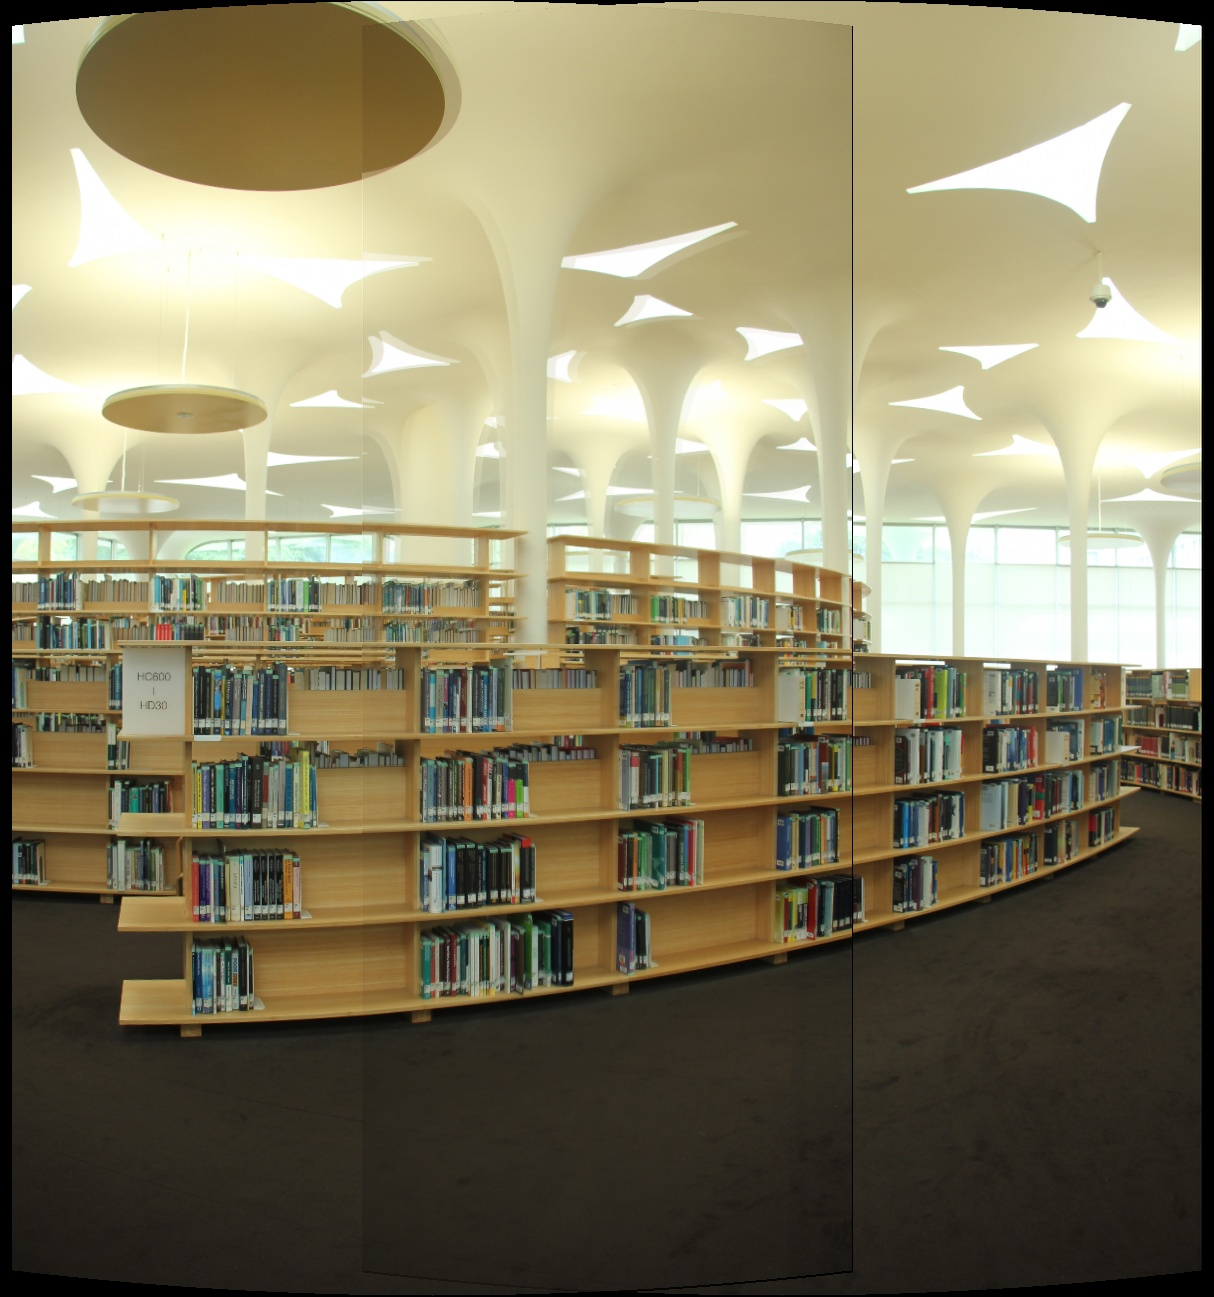
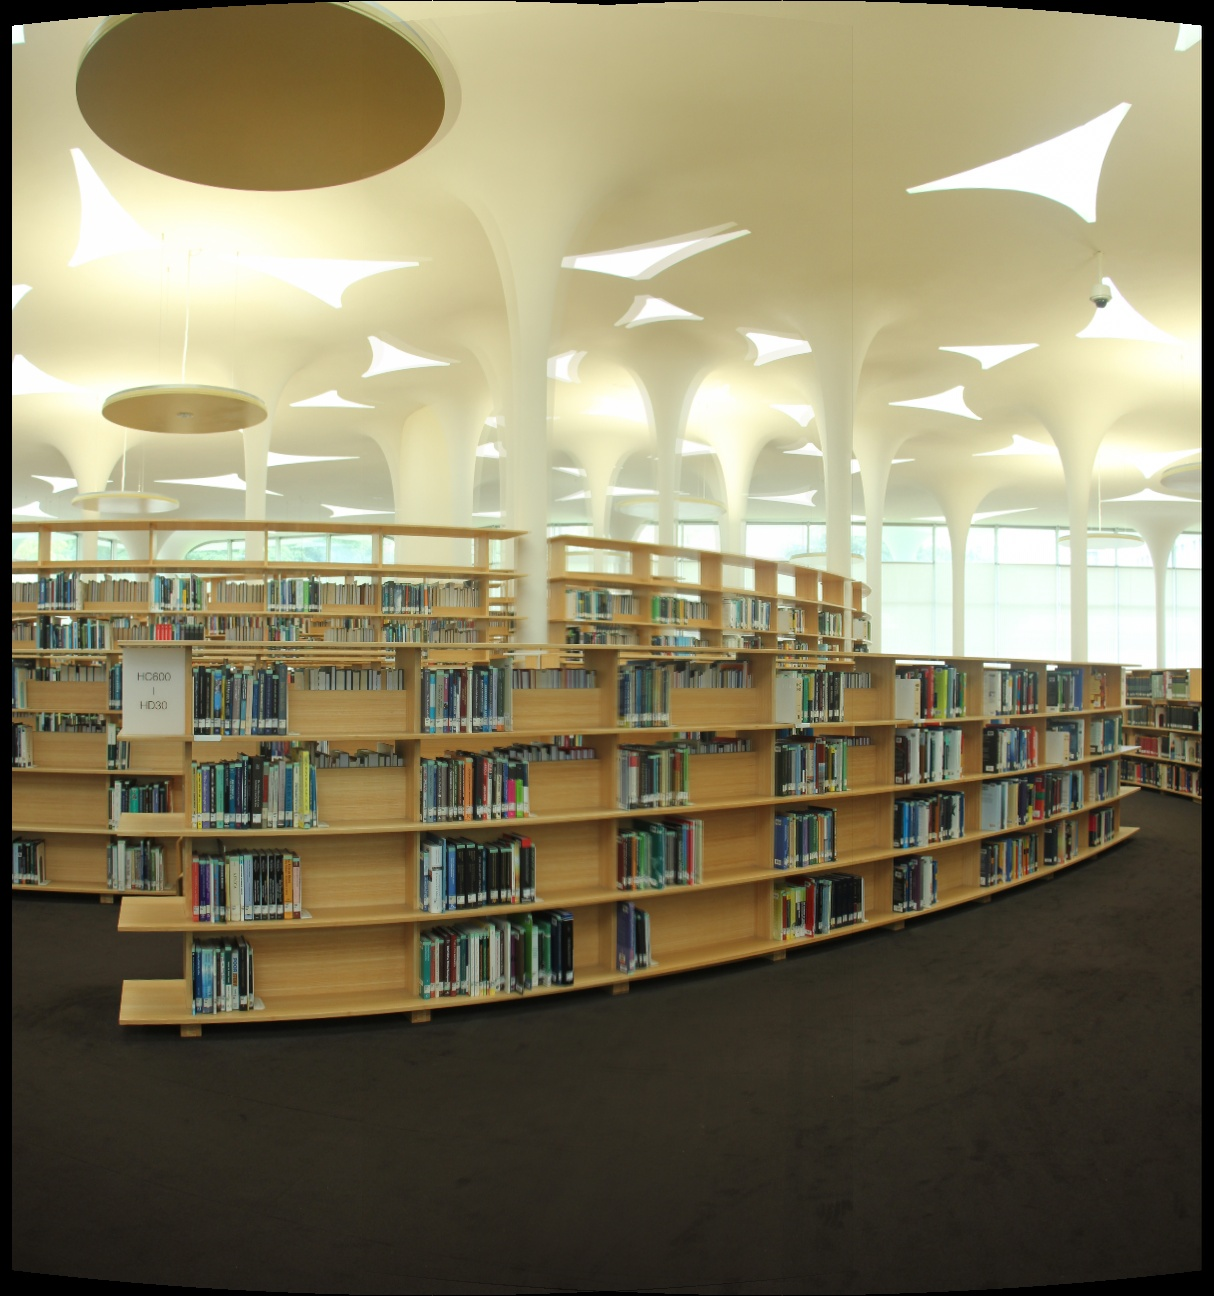
fix order

diff --git a/main.py b/main.py
@@ -62,8 +62,8 @@ def plot_matching(img_dir = 'images', cache_dir = 'cache'):
     plt.show()
 
 def in_img(f, tx, ty, w, h, x_d, y_d):
-    x_d = x_d + tx
-    y_d = y_d + ty
+    x_d = x_d - tx
+    y_d = y_d - ty
     x_u = np.tan((x_d-w//2)/f)*f
     y_u = (y_d-h//2)/f*np.sqrt(np.square(x_u)+f**2)
     return(0 <= x_u+w//2 and x_u+w//2 <= w and 0 <= y_u+h//2 and y_u+h//2 <= h)
@@ -73,12 +73,12 @@ if __name__ == '__main__':
     x = np.load('cache/x.npy').astype(np.int)
     y = np.load('cache/y.npy').astype(np.int)
     features = np.load('cache/features.npy')
-    # get matching coodinates for images 0, 1
-    pairs = get_matching_pairs(x, y, features, 3, 4, threshold = 0.5)
+    # get matching coodinates for images 4, 3
+    pairs = get_matching_pairs(x, y, features, 4, 3, threshold = 0.5)
     f = int(sys.argv[2])
     image_dir = './images/library'
     # image_files = sorted(os.listdir(image_dir))
-    image_files = ['IMG_6583.JPG', 'IMG_6584.JPG']
+    image_files = ['IMG_6584.JPG', 'IMG_6583.JPG']
     ratio = int(sys.argv[1])
     f = f/ratio
     imgs = []
@@ -94,32 +94,35 @@ if __name__ == '__main__':
 
     h, w, _ = imgs[0].shape
     warped_pairs = feature_project(pairs, f, h, w)
-    tx0, ty0 = ransac(warped_pairs, k=100, threshold=3 )
-    tx1 = 0
-    ty1 = 0
-    if( ty0 > 0 ):
-        ty1 = -ty0
-        ty0 = 0
-    warped = translate(warped_imgs[0], (tx0, ty1))
+    tx1, ty1 = ransac(warped_pairs, k=100, threshold=3 )
+    tx0 = 0
+    ty0 = 0
+    if( ty1 < 0 ):
+        ty0 = -ty1
+        ty1 = 0
+    warped = translate(warped_imgs[0], (0, ty0))
     warped_imgs[0] = warped
-    warped = translate(warped_imgs[1], (0, ty1))
+    warped = translate(warped_imgs[1], (tx1, ty0))#後面是圖片要增加多少邊長，所以兩張圖片的y方向都要增加一樣的邊長
     warped_imgs[1] = warped
 
-    h, w, _ = warped_imgs[1].shape
+    # cv2.imwrite('0.jpg', warped_imgs[0])
+    # cv2.imwrite('1.jpg', warped_imgs[1])
+    h, w, _ = warped_imgs[0].shape
     for j in range(h):
         for i in range(w):
             if in_img( f, tx0, ty0, w, h, i, j) and in_img( f, tx1, ty1, w, h, i, j):
                 boundary_width = 2*np.tan(w//2/f)*f
                 blank_width = (w-boundary_width)/2
                 boundary = w-blank_width
-                boundary_dis1 = boundary - i
-                ratio1 = boundary_dis1/(boundary_width-tx0)
-                ratio0 = 1-ratio1
-                warped_imgs[0][j,i] = warped_imgs[0][j,i]*ratio1 + warped_imgs[1][j,i]*ratio0
-            elif in_img( f, tx1, ty1, w, h, i, j):
-                warped_imgs[0][j,i] = warped_imgs[1][j,i]
+                boundary_dis0 = boundary - i
+                ratio0 = boundary_dis0/(boundary_width-tx1)
+                ratio1 = 1-ratio0
+                warped_imgs[1][j,i] = warped_imgs[0][j,i]*ratio0 + warped_imgs[1][j,i]*ratio1
+                # print(ratio0)
+            elif in_img( f, tx0, ty0, w, h, i, j):
+                warped_imgs[1][j,i] = warped_imgs[0][j,i]
     
-    cv2.imwrite('test.jpg', warped_imgs[0])
+    cv2.imwrite('test.jpg', warped_imgs[1])
 
 
 

diff --git a/warp.py b/warp.py
@@ -34,9 +34,9 @@ def FET_t(img, tx, ty):
     def callback(xy_d):
         x_d = (xy_d[:, 0])
         y_d = (xy_d[:, 1])
-        x_u = x_d + tx
-        if ty <= 0:
-            y_u = y_d + ty
+        x_u = x_d - tx
+        if ty >= 0:
+            y_u = y_d - ty
         else :
             y_u = y_d
         xy_u = np.column_stack((x_u, y_u))
